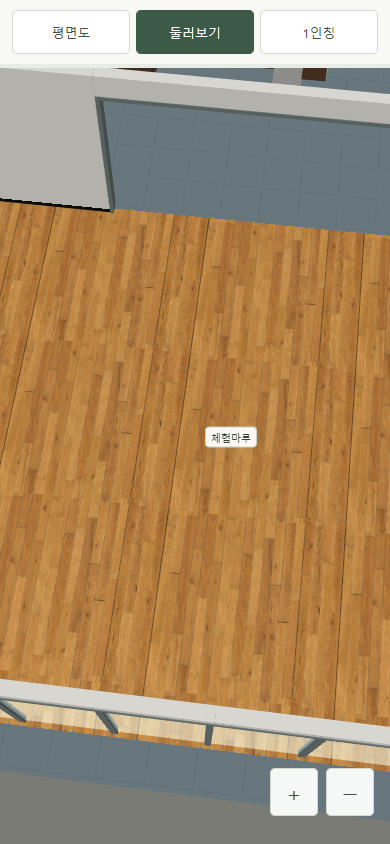
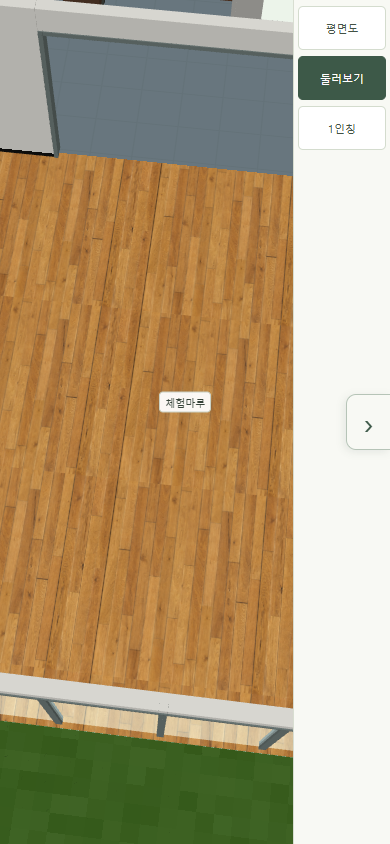
국소부위 버그 수정

diff --git a/details.js b/details.js
@@ -15,12 +15,26 @@
  d.walls.push({id:'entrance-transom',a:[205,318],b:[205,496],bottom:2.5,height:2.8,thickness:.14,room:'bow',evidence:'기존 유리 전실의 상부 연결부. 출입구 아래는 개방 유지'});
  d.detailArches=[{id:'video-route-arch',a:[294,305],b:[400,305],spring:2.18,rise:.38,depth:.14,thickness:.14,posts:true,room:'bow',evidence:'하향 90도 회전한 구분벽 끝 (400,305)에 아치 기둥을 맞춰 직각 접합'}];
  d.detailRibbons=[];
- for(const [id,x,side] of [['bow-left',350,-1],['bow-right',488,0]]){
-   const path=Array.from({length:33},(_,i)=>{const t=i/32;return [x+side*10*Math.sin(Math.PI*t),310+100*t];});
-   d.detailRibbons.push({id,path,bottom:2.38,height:.30,width:5,room:'bow'});
+ // 사용자 표시: 양쪽 활대의 볼록한 곡선과 중앙 안쪽 손잡이 꺾임을 가진 활 윤곽.
+ // 높이 방향 아치가 아니라 상단 평면에서의 목재 전면 윤곽이다.
+ const bowSegments=[
+   [[350,310],[344,320],[330,330],[333,342]],
+   [[333,342],[335,350],[352,354],[358,360]],
+   [[358,360],[352,366],[335,370],[333,378]],
+   [[333,378],[330,390],[344,400],[350,410]]
+ ];
+ const bowPath=[];
+ for(const [segment,points] of bowSegments.entries())for(let i=segment?1:0;i<=16;i++){
+   const t=i/16,u=1-t;bowPath.push([0,1].map(k=>u*u*u*points[0][k]+3*u*u*t*points[1][k]+3*u*t*t*points[2][k]+t*t*t*points[3][k]));
  }
+ d.detailRibbons.push({id:'bow-left',path:bowPath,bottom:2.38,height:.30,width:5,room:'bow',evidence:'사용자 붉은 윤곽: 두 활대 곡선과 중앙 손잡이의 안쪽 꺾임'});
+ d.detailRibbons.push({id:'bow-right',path:[[488,310],[488,410]],bottom:2.38,height:.30,width:5,room:'bow'});
  d.detailRails=[];
- for(let z=310;z<=410;z+=20)d.detailRails.push({id:'bow-cross-'+z,a:[350,z],b:[488,z]});
+ for(let z=310;z<=410;z+=20){
+   const index=bowPath.findIndex(p=>p[1]>=z),a=bowPath[Math.max(0,index-1)],b=bowPath[index];
+   const x=b[1]===a[1]?b[0]:a[0]+(b[0]-a[0])*(z-a[1])/(b[1]-a[1]);
+   d.detailRails.push({id:'bow-cross-'+z,a:[x,z],b:[488,z]});
+ }
  for(let x=373;x<488;x+=23)d.detailRails.push({id:'bow-long-'+x,a:[x,310],b:[x,410]});
  // 체험마루 서측 통로 끝에서 야외 방향으로 이어지는 작은 유리문.
  d.shell.find(w=>w.id==='shell-bow-south').openings=[{from:.022,to:.085,height:2.18,kind:'glazed',divisions:1,note:'VR 통로 끝 유리문. 남측 벽의 위치와 폭은 사진 대응 근사'}];
@@ -145,6 +159,13 @@
  const floorStart=d.floor.polygon.findIndex(p=>p[0]===1145&&p[1]===414);
  d.floor.polygon.splice(floorStart+1,1,...backBoundary.map(w=>[...w.a]),[...backEnd]);
  d.walls.find(w=>w.id==='gallery-transition').thickness=.44;
+ // 아치 오른쪽 기둥(400,305)의 동쪽 돌출면보다 뒤로 물린 홈에서 시작한다.
+ // 전시대 사이 틈을 ㄱ자로 막고 X442의 작업대 뒤 벽에 연결한다.
+ const notchX=400+.22/d.scale;
+ d.walls.push(
+   {id:'bow-recess-return',a:[notchX,301],b:[442,301],height:2.55,thickness:.16,room:'bow',evidence:'사용자 표시 ㄱ자: 기둥 동쪽 홈에서 시작하여 기둥 전면은 노출'},
+   {id:'bow-recess-side',a:[442,301],b:[442,320],height:2.55,thickness:.16,room:'bow',evidence:'사용자 표시 ㄱ자: 작업대 뒤 벽 시작점(442,320)에 접합'}
+ );
  // 아치 옆 사진은 벽걸이 함이 아니라 바닥에 닿는 목재 하부장 + 낮은 상부 유리장.
  d.wallCases=[];
  d.displays.push({id:'arch-corridor-case',at:[400-(.22+.30)/d.scale,280],size:[.60,.85,38*d.scale],type:'low',room:'long',evidence:'사용자 근접 사진 정정: 바닥부터 목재 하부장, 밝은 상판 위 낮은 유리 진열부. 벽걸이 형태 아님'});
@@ -158,6 +179,9 @@
  }
  Object.assign(d.galleryTables[0],{a:[400+.22/d.scale,175],b:[548-.22/d.scale,175]});
  Object.assign(d.galleryTables[1],{a:[548+.22/d.scale,175],b:[690-.22/d.scale,175]});
+ // 사용자 표시: 주 전시실 오른쪽 끝의 벽걸이 함을 기단+통유리 대형 진열장으로 교체.
+ d.wallCases=d.wallCases.filter(c=>c.id!=='gallery-hanging-case-690');
+ d.glassCases=[{id:'gallery-end-showcase',a:[690+.22/d.scale,155],b:[690+.22/d.scale,195],inward:[1,0],depth:1.15,baseHeight:.45,top:d.columns.find(c=>c.id==='gallery-pier-3').height,room:'long',evidence:'사용자 붉은 표시: 기둥 상단 높이까지 통유리. 돌출1.15, 옆 구획까지 통로 약2.89 유지'}];
  // 외피는 항상 경계 안쪽으로 두께를 두어 꺾인 구간의 바깥면을 일치시킨다.
  for(const w of d.shell){const dx=w.b[0]-w.a[0],dz=w.b[1]-w.a[1],len=Math.hypot(dx,dz);w.inset=[-dz/len,dx/len];}
  d.walls.find(w=>w.id==='maru-west').inset=[-1,0];
@@ -173,6 +197,7 @@
  terrace.name='야외체험장';
  terrace.polygon=[[492,496],[552,496],[552,480],[900,480],[900,584],[492,584]];
  terrace.note='사용자 지정 확장 마당. 열린 서측 쪽문으로 출입하며 높이 0.63의 경계벽은 통과할 수 없음';
+ d.outdoorGrass={id:'outdoor-turf',polygon:terrace.polygon.map(p=>[...p]),height:.002,spacing:.28,bladeHeight:.035,color:[.24,.39,.13],room:'outdoor'};
  const terraceStart=d.floor.polygon.findIndex(p=>p[0]===790&&p[1]===480);
  const terraceEnd=d.floor.polygon.findIndex(p=>p[0]===492&&p[1]===496);
  d.floor.polygon.splice(terraceStart+1,terraceEnd-terraceStart,[900,480],[900,584],[492,584],[492,496]);

diff --git a/viewer.js b/viewer.js
@@ -16,23 +16,25 @@
       uniform mat4 uModel,uVP;uniform mat3 uNormal;out vec3 vN;out vec3 vWorld;
       void main(){vN=uNormal*aNormal;vec4 world=uModel*vec4(aPos,1.);vWorld=world.xyz;gl_Position=uVP*world;}
     `,`#version 300 es
-      precision highp float;in vec3 vN;in vec3 vWorld;uniform vec3 uColor,uEye;uniform float uAlpha,uNeutralFloorX;uniform int uSurface;uniform bool uFloorTexture;uniform sampler2D uWood;uniform vec4 uWoodBounds,uEntryBounds,uOutdoorBounds;uniform vec2 uWoodTile;out vec4 outColor;
+      precision highp float;in vec3 vN;in vec3 vWorld;uniform vec3 uColor,uEye;uniform float uAlpha;uniform int uSurface;uniform bool uFloorTexture;uniform sampler2D uWood;uniform vec4 uWoodBounds,uGrassBounds;uniform vec2 uWoodTile,uGrassNotch;out vec4 outColor;
       float hash(vec3 p){p=fract(p*.1031);p+=dot(p,p.yzx+33.33);return fract((p.x+p.y)*p.z);}
       bool within(vec4 b){return vWorld.x>=b.x&&vWorld.z>=b.y&&vWorld.x<=b.z&&vWorld.z<=b.w;}
       void main(){
         vec3 n=normalize(vN),light=normalize(vec3(-.3,1.,.5));float l=.62+.38*max(dot(n,light),0.);vec3 color=uColor*l;
         if(uSurface==1){
+          // 잔디 아래의 기존 바닥 픽셀을 생략해 얇은 받침면과의 깊이 충돌을 방지한다.
+          if(within(uGrassBounds)&&(vWorld.x>=uGrassNotch.x||vWorld.z>=uGrassNotch.y))discard;
           float grain=hash(floor(vWorld*260.)),fleck=hash(floor(vWorld*115.));
           float aa=clamp(length(fwidth(vWorld.xz))*160.,0.,1.);
           color=(vec3(.43,.49,.52)+(grain-.5)*.095*(1.-aa)+step(.93,fleck)*.025*(1.-aa))*l;
-          if(vWorld.x>=uNeutralFloorX)color=(vec3(.52,.53,.54)+(grain-.5)*.075*(1.-aa))*l;
           vec2 edge=min(fract(vWorld.xz/.60),1.-fract(vWorld.xz/.60));
           color*=1.-.035*(1.-smoothstep(0.,max(.002,fwidth(vWorld.x)*2.),min(edge.x,edge.y)));
-          if(within(uEntryBounds)){
-            vec2 tile=fract(vWorld.xz/.55),nearEdge=min(tile,1.-tile);float seam=1.-smoothstep(.008,.018,min(nearEdge.x,nearEdge.y));
-            color=mix(vec3(.26,.205,.17)*(1.+(hash(vec3(floor(vWorld.xz/.55),0.))-.5)*.18),vec3(.47,.46,.42),seam)*l;
-          }
-          if(within(uOutdoorBounds))color=(vec3(.50,.51,.48)+(grain-.5)*.06*(1.-aa))*l;
+
+        }
+        if(uSurface==4){
+          float fine=hash(floor(vWorld*190.)),patchNoise=hash(vec3(floor(vWorld.xz*5.),0.));
+          float aa=clamp(length(fwidth(vWorld.xz))*110.,0.,1.);
+          color=(vec3(.24,.39,.13)+(fine-.5)*.12*(1.-aa)+(patchNoise-.5)*.045)*l;
         }
         if(uSurface==2){float aa=clamp(length(fwidth(vWorld))*160.,0.,1.);color=vec3(.89,.885,.86)*(1.+(hash(floor(vWorld*210.))-.5)*.025*(1.-aa))*l;if(vWorld.y<.075&&abs(n.y)<.5)color=vec3(.065,.064,.062)*l;}
         if(uSurface==3){
@@ -49,7 +51,7 @@
         outColor=vec4(color,uAlpha);
       }
     `);
-    const U=D.uniforms(gl,program,['uModel','uVP','uNormal','uColor','uAlpha','uEye','uFloorTexture','uWood','uWoodBounds','uWoodTile','uSurface','uEntryBounds','uOutdoorBounds','uNeutralFloorX']);
+    const U=D.uniforms(gl,program,['uModel','uVP','uNormal','uColor','uAlpha','uEye','uFloorTexture','uWood','uWoodBounds','uWoodTile','uSurface','uGrassBounds','uGrassNotch']);
     const woodTexture=gl.createTexture(),woodImage=new Image();let woodReady=false;
     gl.bindTexture(gl.TEXTURE_2D,woodTexture);gl.texImage2D(gl.TEXTURE_2D,0,gl.RGBA,1,1,0,gl.RGBA,gl.UNSIGNED_BYTE,new Uint8Array([180,125,60,255]));
     woodImage.onload=()=>{
@@ -146,8 +148,7 @@
       else M.perspective(projection,controls.state.fov*Math.PI/180,w/h,.02,250);
       M.multiply(vp,projection,view);gl.useProgram(program);gl.uniformMatrix4fv(U.uVP,false,vp);
       gl.activeTexture(gl.TEXTURE0);gl.bindTexture(gl.TEXTURE_2D,woodTexture);gl.uniform1i(U.uWood,0);gl.uniform3fv(U.uEye,camera.eye);gl.uniform4fv(U.uWoodBounds,[...woodMin,...woodMax]);gl.uniform2fv(U.uWoodTile,woodRegion.tileSize);
-      gl.uniform4fv(U.uEntryBounds,[...MuseumGeometry.point([36,318]),...MuseumGeometry.point([205,496])]);gl.uniform4fv(U.uOutdoorBounds,[...MuseumGeometry.point([492,496]),...MuseumGeometry.point([900,584])]);
-      gl.uniform1f(U.uNeutralFloorX,MuseumGeometry.point([818,24])[0]);
+      gl.uniform4fv(U.uGrassBounds,[...MuseumGeometry.point([492,480]),...MuseumGeometry.point([900,584])]);gl.uniform2fv(U.uGrassNotch,MuseumGeometry.point([552,496]));
       for(const f of model.floors){if(!f.renderGpu)continue;draw(f.renderGpu,identity,f.color,1,f.group==='floor',MuseumMaterials.classify(f));}
       for(const p of model.parts){if(['glass','displayGlass'].includes(p.group)||!visible(p))continue;draw(p.renderGpu,matrix(p),p.color,1,false,MuseumMaterials.classify(p));}
       // 얇은 유리판은 불투명 부재 뒤에, 카메라에서 먼 순서로 그린다.

diff --git a/geometry.js b/geometry.js
@@ -23,6 +23,23 @@ window.MuseumGeometry = (()=>{
   function build(){
     const parts=[],floors=[{...data.floor,mesh:floor(data.floor.polygon,data.floor.height),group:'floor'},
       ...(data.ceilings||[]).map(c=>({...c,mesh:floor(c.polygon,c.height),group:'ceiling'}))];
+    if(data.outdoorGrass){
+      const g=data.outdoorGrass,poly=g.polygon.map(point),pos=[],nrm=[],idx=[];
+      floors.push({...g,mesh:floor(g.polygon,g.height),group:'grass'});
+      const inside=(x,z)=>{let yes=false;for(let i=0,j=poly.length-1;i<poly.length;j=i++)if((poly[i][1]>z)!==(poly[j][1]>z)&&x<(poly[j][0]-poly[i][0])*(z-poly[i][1])/(poly[j][1]-poly[i][1])+poly[i][0])yes=!yes;return yes;};
+      let seed=1031;const random=()=>{seed=(Math.imul(seed,1664525)+1013904223)>>>0;return seed/4294967296;};
+      const lo=[Math.min(...poly.map(p=>p[0])),Math.min(...poly.map(p=>p[1]))],hi=[Math.max(...poly.map(p=>p[0])),Math.max(...poly.map(p=>p[1]))];
+      for(let x=lo[0]+.05;x<hi[0]-.05;x+=g.spacing)for(let z=lo[1]+.05;z<hi[1]-.05;z+=g.spacing){
+        const px=x+(random()-.5)*.12,pz=z+(random()-.5)*.12,w=.025,h=g.bladeHeight*(.7+random()*.7);
+        if(![[-w,-w],[w,-w],[w,w],[-w,w]].every(v=>inside(px+v[0],pz+v[1])))continue;
+        for(const angle of [random()*Math.PI,random()*Math.PI]){
+          const dx=Math.cos(angle)*w,dz=Math.sin(angle)*w,base=pos.length/3;
+          pos.push(px-dx,g.height,pz-dz,px+dx,g.height,pz+dz,px+dx*.2,g.height+h,pz+dz*.2);
+          for(let k=0;k<3;k++)nrm.push(-Math.sin(angle),.3,Math.cos(angle));idx.push(base,base+1,base+2);
+        }
+      }
+      parts.push({id:g.id+'-blades',mesh:{pos:new Float32Array(pos),nrm:new Float32Array(nrm),idx:new Uint16Array(idx)},position:[0,0,0],size:[1,1,1],yaw:0,color:g.color,group:'grass',room:'outdoor'});
+    }
     const wallColor=[.85,.86,.83],frameColor=[.43,.48,.47];
     function span(id,a,b,low,high,thickness,color,group,room){
       const dx=b[0]-a[0],dz=b[1]-a[1],length=Math.hypot(dx,dz);
@@ -157,6 +174,17 @@ window.MuseumGeometry = (()=>{
       span(n.id+'-left',midA,off(at(.08/len),n.depth/2),n.bottom,n.top,n.depth,wood,'displays',n.room);
       span(n.id+'-right',off(at(1-.08/len),n.depth/2),midB,n.bottom,n.top,n.depth,wood,'displays',n.room);
       span(n.id+'-glass',frontA,frontB,n.bottom+.09,n.top-.09,.018,[.62,.78,.79],'displayGlass',n.room);parts[parts.length-1].alpha=.16;
+    }
+    // 바닥 기단과 프레임 없는 유리 덮개. 뒷면은 기존 벽에 밀착한다.
+    for(const n of data.glassCases||[]){
+      const a=point(n.a),b=point(n.b),offset=(p,d)=>p.map((v,i)=>v+n.inward[i]*d),midA=offset(a,n.depth/2),midB=offset(b,n.depth/2),fa=offset(a,n.depth),fb=offset(b,n.depth);
+      span(n.id+'-toe',midA,midB,0,.06,n.depth,[.16,.17,.16],'displays',n.room);
+      span(n.id+'-base',midA,midB,.06,n.baseHeight-.035,n.depth,[.62,.60,.55],'displays',n.room);
+      span(n.id+'-deck',midA,midB,n.baseHeight-.035,n.baseHeight,n.depth,[.86,.85,.80],'displays',n.room);
+      for(const [id,start,end] of [['front',fa,fb],['left',a,fa],['right',b,fb]]){
+        span(n.id+'-glass-'+id,start,end,n.baseHeight,n.top,.018,[.62,.78,.79],'displayGlass',n.room);parts[parts.length-1].alpha=.16;
+      }
+      span(n.id+'-glass-roof',midA,midB,n.top-.018,n.top,n.depth,[.62,.78,.79],'displayGlass',n.room);parts[parts.length-1].alpha=.14;
     }
     for(const n of data.niches||[]){
       const a=point(n.a),b=point(n.b),len=Math.hypot(b[0]-a[0],b[1]-a[1]),at=t=>a.map((v,i)=>v+(b[i]-v)*t),offset=(p,d)=>p.map((v,i)=>v+n.inward[i]*d),midA=offset(a,n.depth/2),midB=offset(b,n.depth/2),faceA=offset(a,n.depth),faceB=offset(b,n.depth),h=data.wallHeight;

diff --git a/index.html b/index.html
@@ -1,8 +1,8 @@
 <!doctype html>
-<html lang="ko" data-theme="light"><head><meta charset="utf-8"><meta name="viewport" content="width=device-width,initial-scale=1,viewport-fit=cover"><title>부천활박물관 PBL x 컴퓨터 그래픽스 TEAM2</title><link rel="stylesheet" href="style.css?v=20261029-tap5"></head>
+<html lang="ko" data-theme="light"><head><meta charset="utf-8"><meta name="viewport" content="width=device-width,initial-scale=1,viewport-fit=cover"><title>부천활박물관 PBL x 컴퓨터 그래픽스 TEAM2</title><link rel="stylesheet" href="style.css?v=20261029-panel-edge6"></head>
 <body><main class="app"><section class="stage"><div class="viewport"><canvas id="cv" tabindex="0" aria-label="박물관 구조 모델. PC: WASD 이동, 방향키 회전, 휠 확대 축소"></canvas><div id="labels"></div><div id="error" role="alert" hidden></div></div></section>
 <aside><nav class="mode-nav" aria-label="관람 방식"><button type="button" data-navigation="plan" aria-pressed="false">평면도</button><button type="button" data-navigation="orbit" class="active" aria-pressed="true">둘러보기</button><button type="button" data-navigation="interior" aria-pressed="false">1인칭</button></nav><section id="exhibit-info" aria-label="전시물 설명"></section></aside></main>
-<script src="demo.js"></script><script src="layout.js"></script><script src="details.js"></script><script src="geometry.js"></script><script src="surfaces.js"></script><script src="collision.js"></script><script src="controls.js"></script><script src="mobile-controls.js?v=20261029-tap5"></script><script src="assets/textures/texture-assets.js"></script><script src="materials.js"></script><script src="pathfinding.js"></script><script src="shift-navigation.js?v=20261029-tap5"></script><script src="viewer.js?v=20261029-tap5"></script></body></html>
+<script src="demo.js"></script><script src="layout.js"></script><script src="details.js?v=20261029-floor3"></script><script src="geometry.js?v=20261029-floor3"></script><script src="surfaces.js"></script><script src="collision.js"></script><script src="controls.js"></script><script src="mobile-controls.js?v=20261029-floor3"></script><script src="assets/textures/texture-assets.js"></script><script src="materials.js?v=20261029-floor3"></script><script src="pathfinding.js"></script><script src="shift-navigation.js?v=20261029-floor3"></script><script src="viewer.js?v=20261029-floor3"></script></body></html>
 
 
 

diff --git a/shift-navigation.js b/shift-navigation.js
@@ -9,7 +9,7 @@ window.MuseumShiftNavigation=function(canvas,controls,collision,model,onTravel){
  function hitMesh(o,d,p,max){const m=p.mesh,c=Math.cos(p.yaw),s=Math.sin(p.yaw),world=k=>{const v=Array.from(m.pos.slice(k*3,k*3+3),(v,i)=>v*p.size[i]);return [p.position[0]+c*v[0]+s*v[2],p.position[1]+v[1],p.position[2]-s*v[0]+c*v[2]];};for(let i=0;i<m.idx.length;i+=3){const a=world(m.idx[i]),b=world(m.idx[i+1]),e=world(m.idx[i+2]),u=sub(b,a),v=sub(e,a),h=cross(d,v),det=dot(u,h);if(Math.abs(det)<1e-9)continue;const q=sub(o,a),t=dot(q,h)/det;if(t<0||t>1)continue;const k=cross(q,u),w=dot(d,k)/det;if(w<0||t+w>1)continue;const distance=dot(v,k)/det;if(distance>.001&&distance<max-.002)return true;}return false;}
  let rejection=null;const reject=(reason,part=null)=>{rejection={reason,part};return null;};
  function pick(x,y,touch=false){rejection=null;if(!active(touch))return reject("inactive");const r=canvas.getBoundingClientRect(),camera=controls.camera(),f=norm(sub(camera.target,camera.eye)),right=norm(cross(f,camera.up)),up=norm(cross(right,f)),tan=Math.tan(controls.state.fov*Math.PI/360),sx=((x-r.left)/r.width*2-1)*tan*r.width/r.height,sy=(1-(y-r.top)/r.height*2)*tan,dir=norm(f.map((v,i)=>v+right[i]*sx+up[i]*sy));if(dir[1]>=-.001)return reject("above-floor");const distance=-camera.eye[1]/dir[1];if(distance>60)return reject("range");const ground=camera.eye.map((v,i)=>v+dir[i]*distance);ground[1]=0;if(!inside(ground))return reject("outside-floor");
-  const occluder=model.parts.find(p=>!['glass','displayGlass'].includes(p.group)&&(p.mesh?hitMesh(camera.eye,dir,p,distance):hitBox(camera.eye,dir,p,distance)));if(occluder)return reject("occluded",occluder.id);
+  const occluder=model.parts.find(p=>!['glass','displayGlass','grass'].includes(p.group)&&(p.mesh?hitMesh(camera.eye,dir,p,distance):hitBox(camera.eye,dir,p,distance)));if(occluder)return reject("occluded",occluder.id);
   const to=[ground[0],controls.state.minEyeHeight,ground[2]];if(Math.hypot(...sub(to,camera.eye))<.15)return reject("too-close");if(collision.blocked(to))return reject("blocked-destination");return to;
  }
  canvas.addEventListener('pointerdown',e=>{if(e.pointerType!=='mouse'||e.button!==0||!active())return;e.preventDefault();drag={id:e.pointerId,x:e.clientX,y:e.clientY,lastX:e.clientX,lastY:e.clientY,moved:false};canvas.setPointerCapture(e.pointerId);});

diff --git a/style.css b/style.css
@@ -11,3 +11,4 @@
 .mobile-input .mobile-panel-toggle{display:grid;place-items:center;position:fixed;right:env(safe-area-inset-right,0px);top:50%;transform:translateY(-50%);z-index:20;width:44px;height:56px;padding:0;border:1px solid #b6c4b7;border-right:0;border-radius:10px 0 0 10px;background:#f8f9f4f2;color:#3d5948;font:32px/1 system-ui;box-shadow:-2px 2px 8px #24382818;touch-action:manipulation;cursor:pointer}
 .mobile-input.panel-hidden .app{grid-template-columns:minmax(0,1fr)}
 .mobile-input.panel-hidden aside{display:none}
+.mobile-input:not(.panel-hidden) .mobile-panel-toggle{right:25%}

diff --git a/materials.js b/materials.js
@@ -1,6 +1,7 @@
 /* VR 내부 관찰을 토대로 한 재질 분류. 사진 자체를 붙이지 않고 미세 표면을 재현한다. */
 window.MuseumMaterials={
  classify(p){
+  if(p.group==='grass')return 4;
   if(p.group==='floor')return 1;
   if(['glass','displayGlass'].includes(p.group))return 0;
   if(p.color[0]>p.color[1]*1.18&&p.color[1]>p.color[2]*1.15)return 3;

diff --git a/VR-MATERIALS.md b/VR-MATERIALS.md
@@ -1,23 +1,26 @@
-# VR 관찰 기반 재질 적용
+# 현재 바닥·벽·목재·잔디 재질
 
-## 직접 관찰
-Matterport 내부 캠의 최초 로비, 기마상 주변 전시 구역, 경기감영도 액자 벽, 실감형체험장 투사벽, 기증전시실 내부 하이라이트를 확인했습니다.
-- 로비·주 전시실: 회청색의 미세한 점상 바닥, 약한 사각 이음매.
-- 실감형체험장·기증전시실: 조명 아래 중성 회색 점상 바닥, 밝은 흰색~아이보리 도장 벽, 검은 걸레받이.
-- 목재 전시시설: 갈색 수직 나뭇결과 짙은 목재 테두리.
-- 체험마루: 이전 사용자 근접 사진을 토대로 생성·적용한 황금색 목재 마루 유지.
+## 바닥 적용 규칙
 
-## 적용
-materials.js에서 부재를 바닥·도장·목재·기타로 분류합니다. viewer.js의 월드 좌표 기반 셰이더에서 미세한 점상 질감과 목재 결을 계산합니다. 원본 스캔 텍스처 추출이 아니라 관찰 기반 재현입니다. 원근에 따른 깜박임을 줄이도록 미분 기반으로 먼 거리의 미세 질감을 약화합니다.
-체험마루의 래스터 목재 텍스처는 그대로 사용합니다. 전시물·액자 인쇄물·영상·촬영 반사는 재질에 포함하지 않았습니다.
+- 체험마루를 제외한 실내 전체는 중앙 로비·영상실과 같은 파란 회청색 점상 바닥과 타일 이음매를 사용합니다.
+  실감형체험장·기획전시실·기증전시실의 중성 회색 분기와 입구 갈색 타일 분기는 제거했습니다.
+- 체험마루 X552~790, Z256~480은 기존 황금색 목재 텍스처를 유지합니다.
+- 야외체험장은 rooms.outdoor.polygon의 ㄱ자 외곽을 그대로 사용한 잔디 받침면과 짧은 잔디 잎 메시입니다.
+  details.js의 outdoorGrass가 외곽·높이·간격·잎 높이·색상을 관리하고 geometry.js가 메시를 생성합니다.
+- 잔디 받침면 높이는 0.002, 잎 기본 높이는 0.035 상대 단위입니다. 받침면이 기존 바닥과 겹쳐 깜박이지 않게
+  아주 작게 띄웠으며 보행 높이와 충돌은 바꾸지 않습니다. 잎은 외곽 밖으로 나가지 않도록 검사합니다.
+- 잔디는 외부 모델 다운로드나 텍스처 없이 생성한 모델입니다. 받침면에는 절차적 녹색 미세 질감을 적용합니다.
+  잔디 잎은 충돌 및 바닥 선택의 가림 검사에서 제외합니다.
 
-## 추정 구역
-- 입구 갈색 타일은 앞서 제공된 평면 사진을 근거로 대략 구획했습니다. 현재 VR 순회에서 정밀 치수를 재확인하지 않았습니다.
-- 기획전시실 바닥은 인접 전시실의 중성 회색 마감으로 근사했습니다.
-- 영상실 문 뒤의 미확인 내부는 새로 만들지 않았고 기존 모델의 영상실 표시 구역에 공통 마감을 사용합니다.
-- 확장 야외체험장은 사용자 설계 영역이므로 중성 회색 콘크리트 질감으로 근사했습니다.
-- 관찰되지 않은 벽의 뒷면·외부면은 공통 도장 마감입니다. 원본 모든 벽의 정밀 복원이라고 볼 수 없습니다.
+## 근거·제약
+
+파란 회청색 바닥과 도장·목재 마감은 기존 VR 관찰을 참고한 근사 표현입니다.
+실내 전체 색상 통일과 야외 잔디는 사용자가 지정한 변경이며 실제 박물관의 동일 마감을 뜻하지 않습니다.
+전시품·인쇄물·영상·촬영 반사는 재질에 포함하지 않습니다.
+체험마루 래스터 목재는 생성 이미지이며 원본 스캔 추출물이 아닙니다.
 
 ## 검증
-verify-materials.cjs: PC·모바일 텍스처 로드 및 목재/회색 바닥 픽셀, WebGL 오류 검사.
-verify.cjs, verify-mobile.cjs: 모드 전환·PC·터치 조작 회귀 검사.
+
+verify-materials.cjs는 PC·모바일에서 목재 유지, 여러 실내 영역의 파란색, 야외 잔디 녹색,
+야외 북측 꺾임과 실내 경계, 텍스처 로드 및 WebGL 오류를 확인합니다.
+verify-model.cjs는 잔디 받침면을 포함한 다각형 삼각분할·면적·법선을 검사합니다.

diff --git a/README.md b/README.md
@@ -44,7 +44,7 @@
   이동·회전을 동시에 수행하며 조이스틱 변위에 따라 속도를 조절합니다.
 - 두 손가락 핀치로 외부 거리를, 내부에서는 위치·시선을 유지한 채 FOV를 조절합니다. 별도 ± 버튼과 커서 잠금은 사용하지 않습니다.
 - 화면 회전·창 전환·터치 취소·모드 전환 시 입력을 초기화합니다.
-- 화면 오른쪽 테두리 중앙의 화살표 버튼으로 패널을 숨기거나 다시 엽니다.
+- 패널이 열려 있으면 왼쪽 경계 중앙의 화살표로 숨깁니다. 닫혀 있으면 화면 오른쪽 테두리 중앙의 화살표로 다시 엽니다.
   패널 버튼은 터치 지원 여부로 표시합니다. 조이스틱은 실제 터치 입력 때만 활성화하며, PC·마우스 조작 중에는 숨깁니다. 터치 가능한 PC에서도 마우스 입력은 모바일 조작으로 취급하지 않습니다.
   숨김 상태에서는 모델이 화면 전체 너비를 사용하며, 열면 75:25 비율로 복원합니다.
   패널 전환 시 터치 입력을 초기화하고 카메라 위치·시선·관람 모드는 유지합니다.
@@ -52,12 +52,15 @@
 ## 모델·재질 범위
 
 - 단일 높이의 직각 외곽 통합 바닥, 실내 외피 22구간, 내부 벽·문·유리·기둥·보.
-- 로비의 곡면 분리벽, 목재 격자·아치·책상·작업대, 빈 진열장·전시대.
-- 주 전시실의 목재 테이블 2개와 진열부, 별도 실감형체험장과 막힌 뒷면의 전시 홈.
+- 로비의 곡면 분리벽, 중앙 안쪽 꺾임을 가진 활 모양 목재 격자·아치·책상·작업대, 빈 진열장·전시대.
+- 아치 오른쪽 기둥 옆 홈부터 작업대 뒤 벽까지 ㄱ자 벽으로 연결하며 기둥 전면은 노출합니다.
+- 주 전시실의 목재 테이블 2개와 진열부, 오른쪽 끝의 기단(0.45)+통유리 대형 진열장(상단2.48·돌출1.15), 별도 실감형체험장과 막힌 뒷면의 전시 홈.
 - 실감형체험장은 사용자 지정 직사각 확장 구역(X818~1056, Z24~175)입니다.
 - 야외체험장은 사용자 지정 확장 마당이며 낮은 경계벽 높이는 0.63입니다.
   서측 쪽문은 열린 통로이며 양방향 이동할 수 있습니다.
-- 체험마루 목재 텍스처, 관찰 기반 절차적 바닥·도장 벽·목재 마감과 걸레받이.
+- 체험마루는 기존 목재 텍스처를 유지하고, 나머지 실내 바닥은 중앙 로비·영상실과 같은 파란색으로 통일합니다.
+- 야외체험장에만 외곽과 같은 높이0.002의 잔디 받침면과 짧은 잔디 잎 메시를 적용합니다. 실내로 번지지 않으며 보행·바닥 탭 이동을 막지 않습니다.
+- 관찰 기반 절차적 도장 벽·목재 마감과 걸레받이.
   전시품·모형·부조 작품·설명 인쇄물·영상 콘텐츠는 생성하지 않습니다.
 - 재질 근거와 근사 범위는 [VR-MATERIALS.md](VR-MATERIALS.md)에 기록합니다.
 - `surfaces.js`는 겹친 공면을 잘라내어 중복 표시를 줄입니다. 정상 접합 부피·충돌 데이터는 유지합니다.

diff --git a/OBSERVATIONS.md b/OBSERVATIONS.md
@@ -98,3 +98,20 @@
 
 ### 체험마루 목재 바닥 적용
 X552~790, Z256~480 영역에 생성한 황금빛 목재 텍스처를 적용했습니다. 통합 바닥은 분리하거나 겹쳐 쌓지 않고 월드 좌표 기반 재질 마스크로 해당 구역만 샘플링합니다. 타일 크기는 2.4×2.4 상대 단위이며 판재는 Z방향입니다. 밉맵·이방성 필터링과 약한 조명 광택을 적용했습니다. 로컬 index.html 실행도 지원하도록 원본 PNG를 데이터 URI로 묶은 texture-assets.js를 사용합니다. PC·모바일에서 텍스처 로드, 체험마루 목재 픽셀·기획전시실 기존 바닥 픽셀과 WebGL 오류 없음을 확인했습니다.
+
+### 2026-10-29 · 사용자 표시 ㄱ자 벽과 활 윤곽
+
+아치 오른쪽 기둥 (400,305)을 가리지 않도록 기존 구분벽 동쪽 면 X406.286의 홈 쪽 Z301에서
+(442,301)로 연결하고 (442,320)에서 작업대 뒤 벽과 접합합니다. 높이2.55·두께0.16의 ㄱ자 벽입니다.
+목재 전면 bow-left는 단일 사인 곡선 대신 두 볼록한 활대와 중앙 (358,360)의 안쪽 꺾임을 가진
+4개 베지어 구간으로 구성합니다. 끝점 (350,310)/(350,410), 높이·두께는 유지하고
+가로 격자도 새 윤곽에 맞춰 연결합니다. 사용자 스케치에 따른 형상 수정이며 실측 복원값은 아닙니다.
+
+### 2026-10-29 · 주 전시실 오른쪽 대형 통유리 진열장
+
+X690 끝벽의 gallery-hanging-case-690을 제거하고 gallery-end-showcase로 교체했습니다.
+기단은 높이0.45, 유리 상단은 gallery-pier-3 기둥 높이2.48에 맞췄습니다.
+벽 동쪽 면부터 복도 방향으로 깊이1.15, Z155~195 전체 폭1.4를 사용하며
+유리 전면·양측면·상부 덮개를 별도로 구성했습니다. 뒷면은 기존 벽입니다.
+X818 구획까지 약2.89의 통행 폭이 남습니다. 기단과 유리 모두 1인칭 충돌 대상입니다.
+사용자 지정 변경이며 실제 진열장의 실측 치수를 뜻하지 않습니다.
